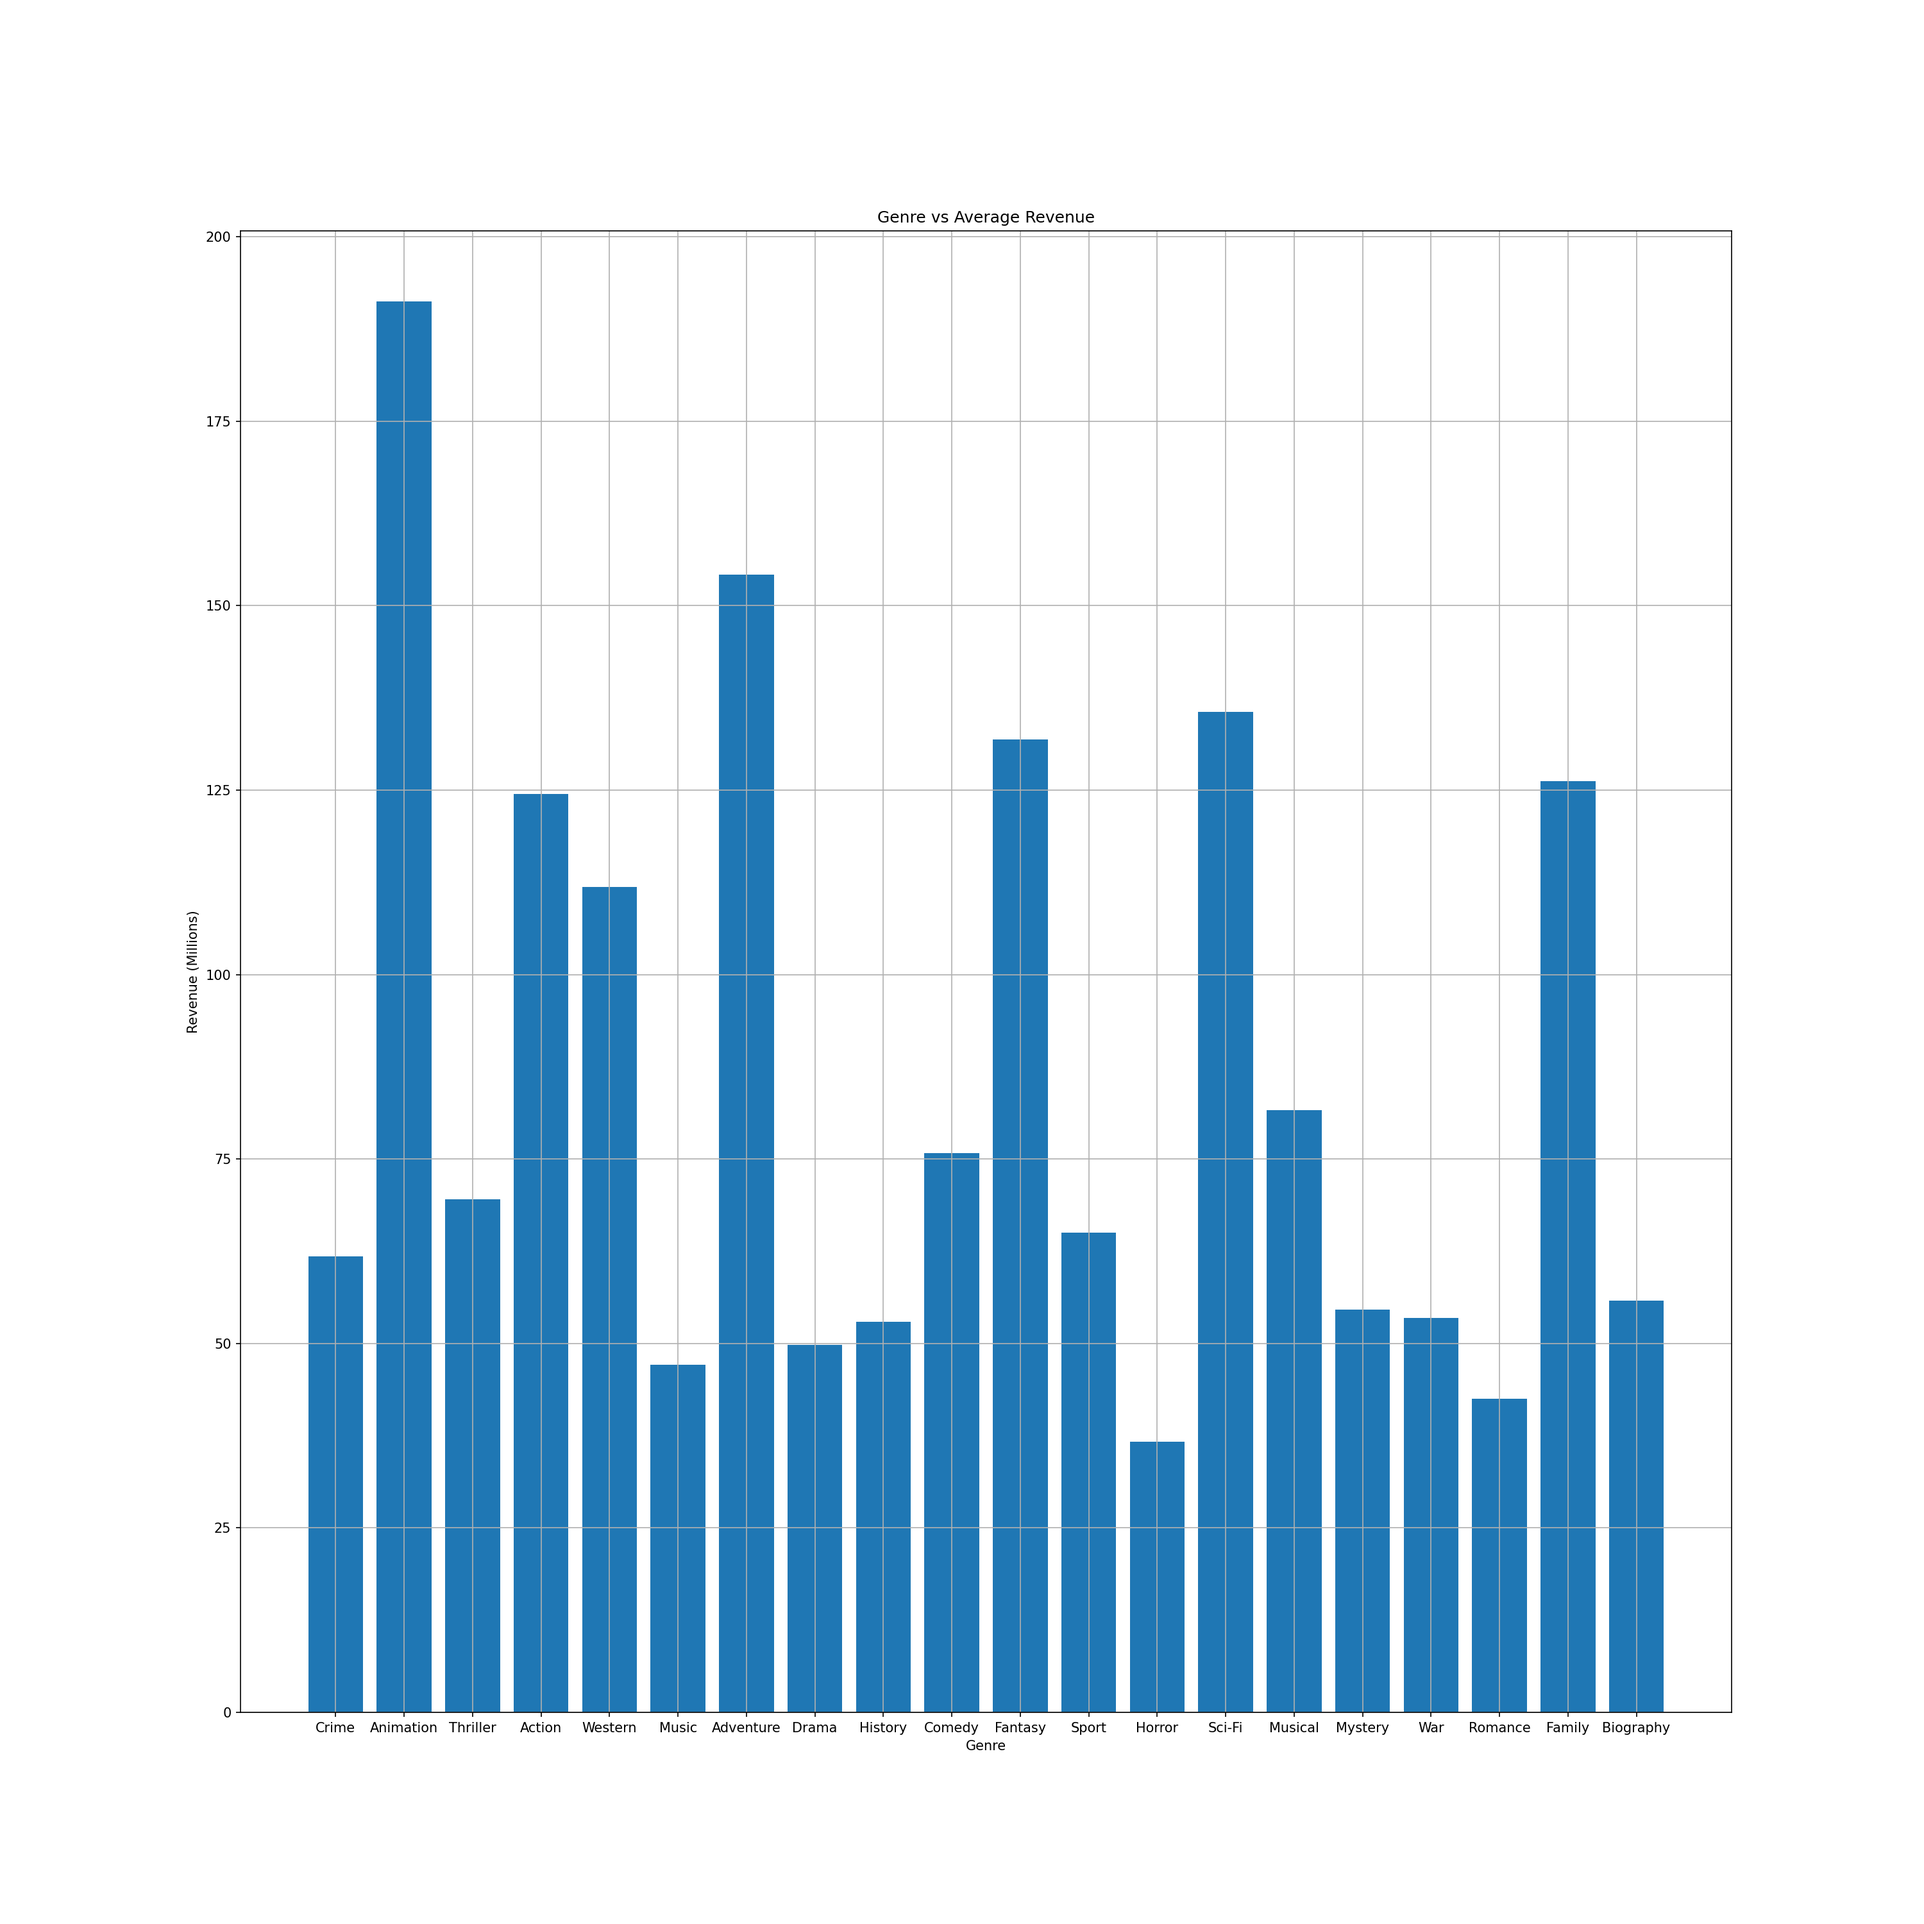
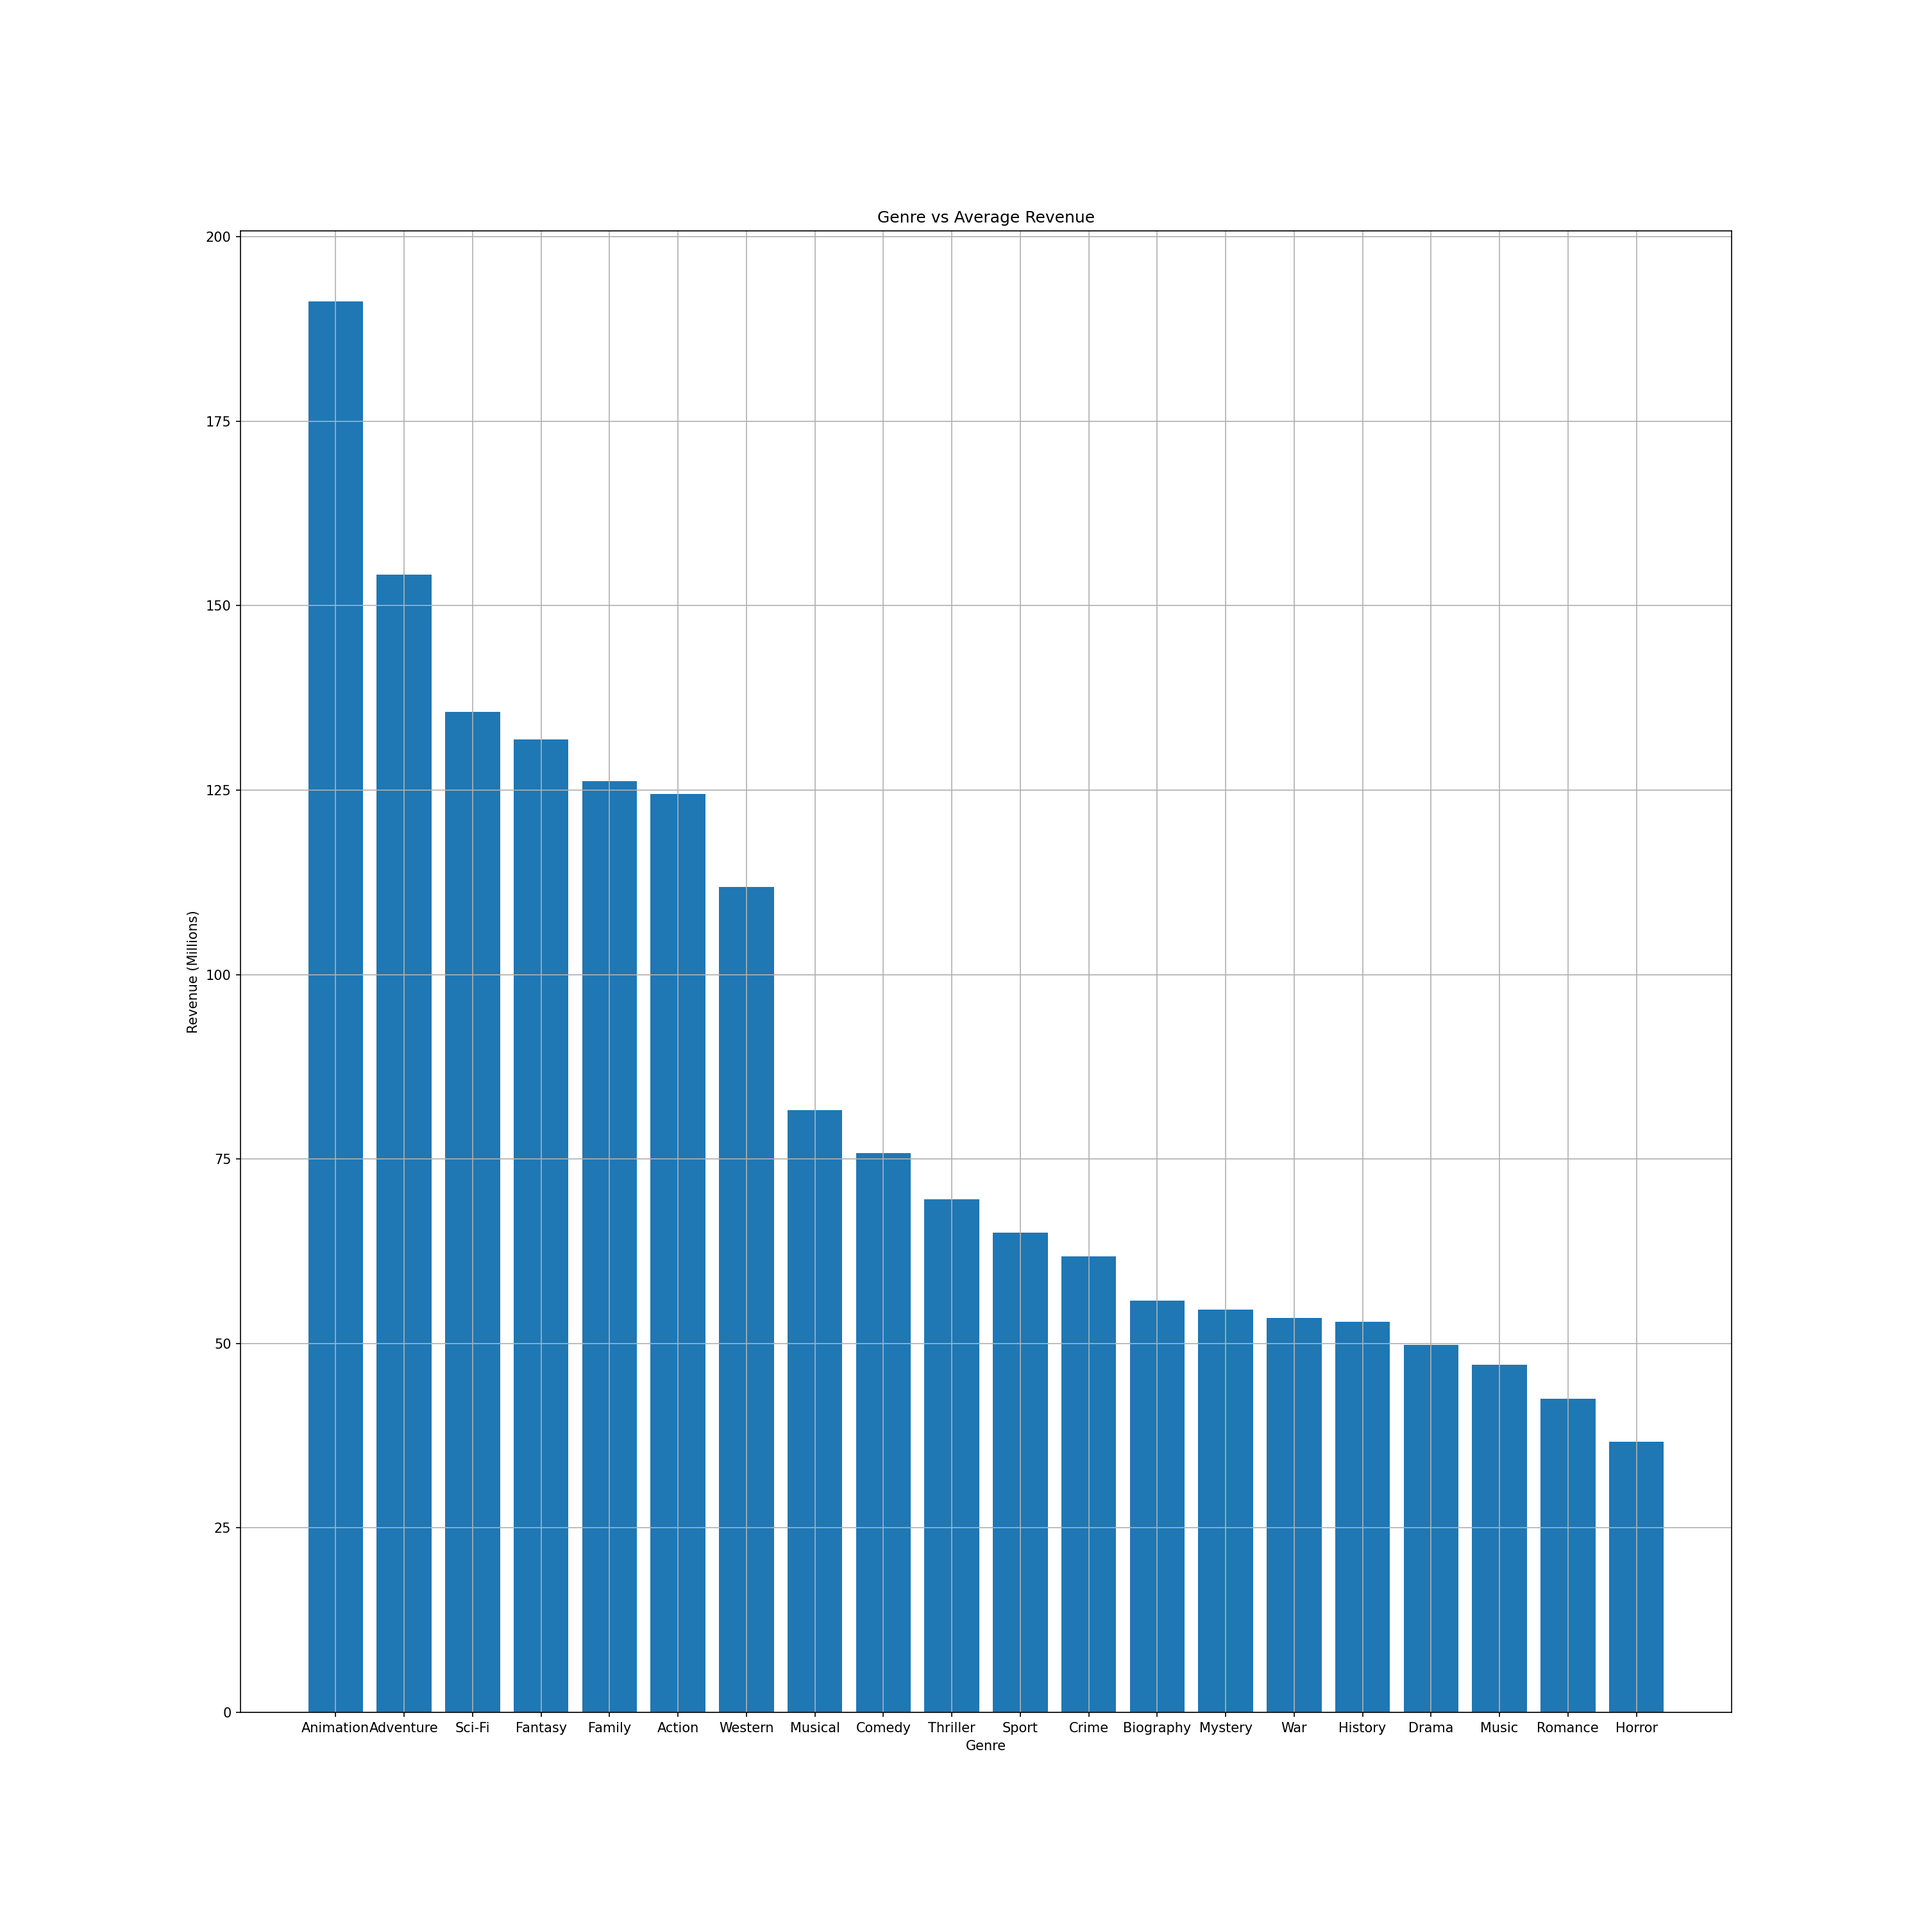
Added Director vs Revenue and new sort and crop dictionary fucntion

diff --git a/DataAnalysis.py b/DataAnalysis.py
@@ -36,13 +36,35 @@ import matplotlib
 import matplotlib.pyplot as plt
 import pandas as pd
 import numpy as np
+import seaborn as sns
 import math
+
+
+# HELPER FUNCTIONS
+
+def sort_and_crop_dict(d: dict, n: int = None) -> dict:
+    """
+    Returns a sorted high->low dictionary which has been cropped to length n
+        param d: Dictionary to sort and crop
+        param n: Length of resultant dictionary
+    """
+    if (n == None or n <= 0 or n > len(d)):
+        n = len(d)
+    keys = list(d.keys())
+    values = list(d.values())
+    sorted_value_index = np.argsort(values)[::-1]
+    sorted_dict = {keys[i]: values[i] for i in sorted_value_index[0:n]}
+    return sorted_dict
+
+
+# Main Code
 
 matplotlib.rcParams["figure.dpi"] = 150
 
 data = pd.read_csv("IMDB-Movie-Data.csv")
 # Rank, Title, Genre, Description, Director, Actors, Year, Runtime (Minutes),
 # Rating, Votes, Revenue (Millions), Metascore
+
 
 # Genre vs Average Revenue
 allGenres = set(sum([genList.split(",") for genList in list(data.Genre)], []))
@@ -59,6 +81,9 @@ for index in data.index:
 for item in genreRevenues:
     genreRevenues[item] = sum(genreRevenues[item]) / len(genreRevenues[item])
 
+
+genreRevenues = sort_and_crop_dict(genreRevenues)
+
 fig1, ax1 = plt.subplots(figsize=(20, 20))
 ax1.grid()
 ax1.set_title("Genre vs Average Revenue")
@@ -69,6 +94,54 @@ ax1.bar(range(len(genreRevenues)), list(genreRevenues.values()),
 plt.savefig("Figures/Genre vs Average Revenue.png")
 
 # Directors vs Average Revenue
+
+# Generate set of distinct directors from dataframe
+allDirectors = set(sum([dirList.split(",") for dirList in list(data.Director)], []))
+
+# Generate a dictionary of empty revenues for each director
+dirRevenues = {}
+for dir in allDirectors:
+    dirRevenues[dir] = []
+
+
+for index in data.index:
+    # Getting revenue for each movie
+    itemRevenue = data["Revenue (Millions)"][index]
+    if math.isnan(itemRevenue): # Skip nan values
+        continue
+
+    # Finds the director for the film and 
+    # adds the revenue of that film to the dictionary
+    dir = data.Director[index]
+    dirRevenues[dir].append(itemRevenue)
+
+
+delList = []
+
+# Average the revenue for each film
+for item in dirRevenues:
+    if (len(dirRevenues[item]) == 0):
+        delList.append(item)
+        continue
+    dirRevenues[item] = sum(dirRevenues[item]) / len(dirRevenues[item])
+
+# Remove directors with no data
+for item in delList:
+    del dirRevenues[item]
+
+
+# Get Directors with the top 100 average revenues
+dirRevenues = sort_and_crop_dict(dirRevenues, 100)
+
+fig1, ax1 = plt.subplots(figsize=(20, 20))
+ax1.grid()
+ax1.set_title("Top 100 Director vs Average Revenue")
+ax1.set_xlabel("Top 100 Directors")
+ax1.set_ylabel("Revenue (Millions)")
+ax1.bar(range(len(dirRevenues)), list(dirRevenues.values()),
+        tick_label=list(dirRevenues.keys()))
+plt.xticks(rotation=90)
+plt.savefig("Figures/Directors vs Average Revenue.png")
 
 # Actors vs Average Revenue
 
